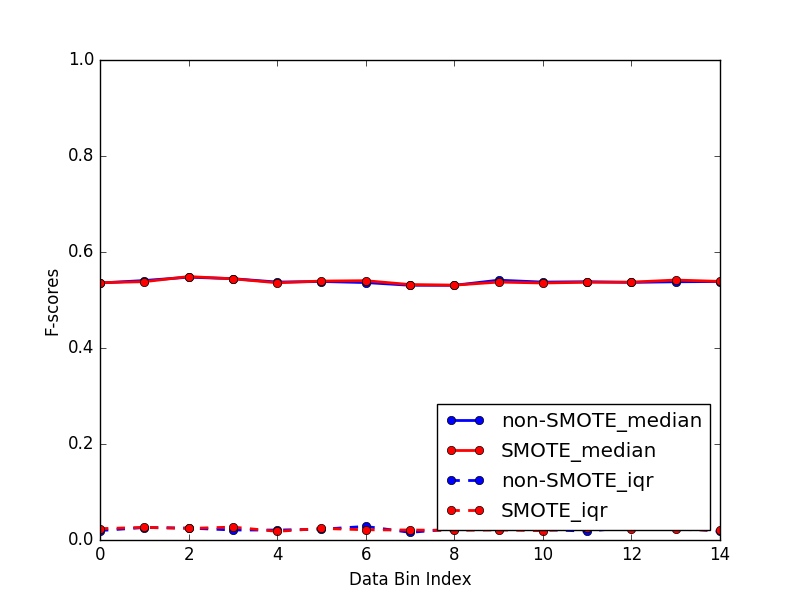
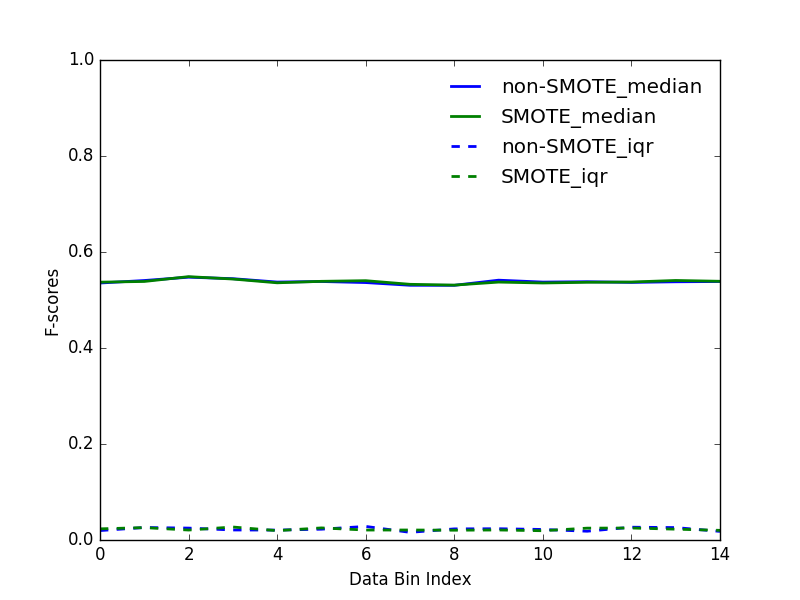
update results

diff --git a/code/EmailSignatureExtraction_v4.py b/code/EmailSignatureExtraction_v4.py
@@ -39,11 +39,12 @@ def main():
               "DT": sklearn.tree.DecisionTreeClassifier(), \
               "NBayes": sklearn.naive_bayes.GaussianNB(), \
               "NNeighbors": sklearn.neighbors.nearest_centroid.NearestCentroid()}
-    model_chosen = "DT"
+    model_chosen = "NNeighbors"
     print "Classifier Type:", model_chosen
     for binIndex in range(NUM_OF_BINS):
         print "Experiment on DataSet#", str(binIndex)
-        random.shuffle(data_pos), random.shuffle(data_neg)
+        random.shuffle(data_pos)
+        random.shuffle(data_neg)
         size_pos_bin, size_neg_bin = int(len(data_pos)*SAMPLE_SIZE_RATIO), int(len(data_neg)*SAMPLE_SIZE_RATIO)
         data_pos_bin, data_neg_bin = data_pos[:size_pos_bin], data_neg[:size_neg_bin] # dataset bin
         sFscores_iter_ns, sRecalls_iter_ns, sPrecisions_iter_ns = list(), list(), list()
@@ -177,10 +178,10 @@ def save_stats(stats_Fscores_ns, stats_recalls_ns, stats_precisions_ns, stats_Fs
         plt.figure()
         numOfBins = len(median_Fscores_ns)
         dataBinIndex = [i for i in range(numOfBins)]
-        plt.plot(dataBinIndex, median_Fscores_ns, color="blue", marker='o', linewidth=2, label="non-SMOTE_median")
-        plt.plot(dataBinIndex, median_Fscores_ws, color="red", marker='o', linewidth=2, label="SMOTE_median")
-        plt.plot(dataBinIndex, iqr_Fscores_ns, color="blue", marker='o', linestyle='--', linewidth=2, label="non-SMOTE_iqr")
-        plt.plot(dataBinIndex, iqr_Fscores_ws, color="red", marker='o', linestyle='--', linewidth=2, label="SMOTE_iqr")
+        plt.plot(dataBinIndex, median_Fscores_ns, color="blue", linewidth=2, label="non-SMOTE_median")
+        plt.plot(dataBinIndex, median_Fscores_ws, color="green", linewidth=2, label="SMOTE_median")
+        plt.plot(dataBinIndex, iqr_Fscores_ns, color="blue", linestyle='--', linewidth=2, label="non-SMOTE_iqr")
+        plt.plot(dataBinIndex, iqr_Fscores_ws, color="green", linestyle='--', linewidth=2, label="SMOTE_iqr")
         plt.ylim([0, 1.0])
         plt.legend(loc=0, borderaxespad=0.5, frameon=False)
         plt.ylabel("F-scores")
